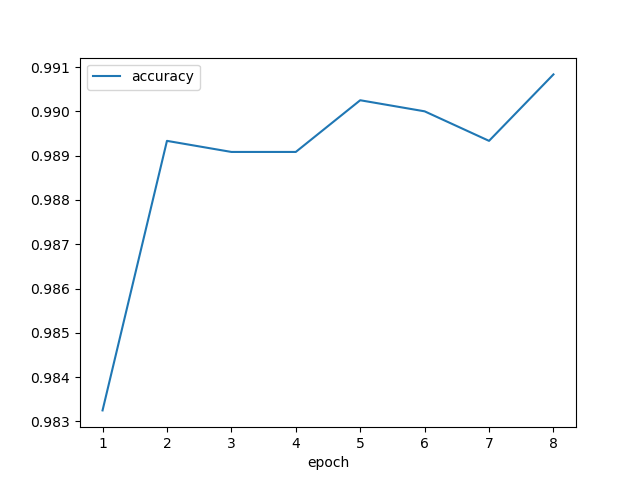
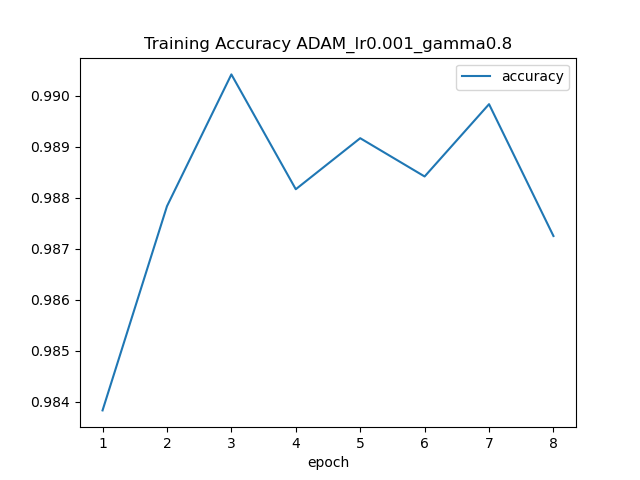
Dropout=0.1

diff --git a/hw05_CNN_Unet/MNIST_CNN/model_cnn_TODO.py b/hw05_CNN_Unet/MNIST_CNN/model_cnn_TODO.py
@@ -11,8 +11,8 @@ class Net(nn.Module):
 
 
         self.conv2 = nn.Conv2d(32, 64, 3, 1)
-        self.dropout1 = nn.Dropout(0.3)
-        self.dropout2 = nn.Dropout(0.3)
+        self.dropout1 = nn.Dropout(0.1)
+        self.dropout2 = nn.Dropout(0.1)
         self.fc1 = nn.Linear(9216, 128)
         self.fc2 = nn.Linear(128, 10)
 
